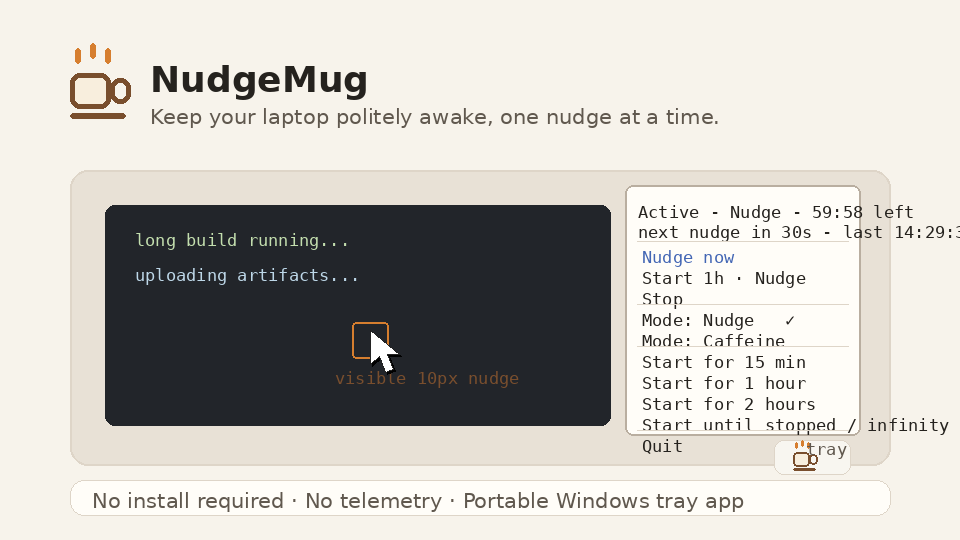
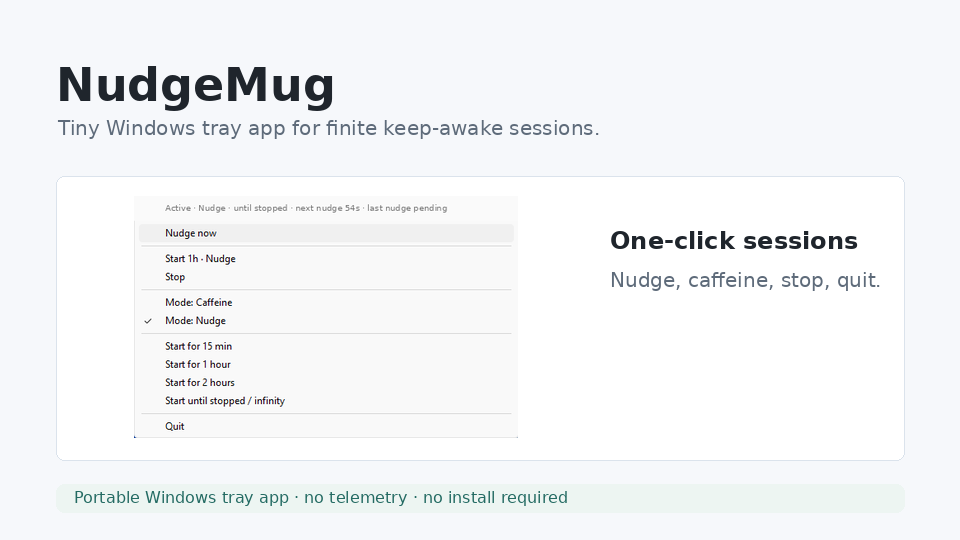
fix: polish tray status and landing screenshots

diff --git a/docs/index.html b/docs/index.html
@@ -30,15 +30,18 @@
       font: 16px/1.5 system-ui, -apple-system, BlinkMacSystemFont, "Segoe UI", sans-serif;
       background: var(--bg);
       color: var(--ink);
+      overflow-x: hidden;
     }
     a { color: var(--blue); }
+    img { max-width: 100%; }
     .wrap { width: min(1120px, calc(100% - 32px)); margin: 0 auto; }
     header { padding: 22px 0; border-bottom: 1px solid var(--line); }
-    nav { display: flex; align-items: center; justify-content: space-between; gap: 16px; }
+    nav { display: flex; align-items: center; justify-content: space-between; gap: 16px; flex-wrap: wrap; }
     .brand { display: flex; align-items: center; gap: 12px; font-weight: 800; letter-spacing: 0; }
     .mug { width: 34px; height: 34px; image-rendering: pixelated; }
     .navlinks { display: flex; gap: 18px; flex-wrap: wrap; font-size: 14px; }
     .hero { padding: 52px 0 34px; display: grid; grid-template-columns: minmax(0, 0.82fr) minmax(340px, 1.18fr); gap: 38px; align-items: center; }
+    .hero > * { min-width: 0; }
     h1 { font-size: clamp(42px, 8vw, 84px); line-height: 0.94; margin: 0 0 18px; letter-spacing: 0; }
     .lede { font-size: clamp(18px, 2.2vw, 24px); color: var(--muted); max-width: 620px; margin: 0 0 26px; }
     .actions { display: flex; gap: 12px; flex-wrap: wrap; align-items: center; }
@@ -46,11 +49,15 @@
     .primary { background: var(--accent); color: white; }
     .primary:hover { background: var(--accent-strong); }
     .secondary { color: var(--accent); background: rgba(255,255,255,0.72); }
-    .terminal { margin-top: 18px; padding: 12px 14px; background: #1f252c; color: #edf5f2; border-radius: 8px; font-family: ui-monospace, SFMono-Regular, Consolas, monospace; font-size: 14px; overflow-x: auto; border-left: 4px solid var(--coral); }
-    .demo { width: 100%; border: 1px solid var(--line); border-radius: 8px; box-shadow: 0 18px 42px rgba(31,37,44,.14); background: var(--card); }
+    .terminal { margin-top: 18px; padding: 12px 14px; background: #1f252c; color: #edf5f2; border-radius: 8px; font-family: ui-monospace, SFMono-Regular, Consolas, monospace; font-size: 14px; overflow-wrap: anywhere; border-left: 4px solid var(--coral); }
+    .terminal .muted { display: block; margin-top: 2px; }
+    .demo { display: block; width: 100%; max-width: 100%; border: 1px solid var(--line); border-radius: 8px; box-shadow: 0 18px 42px rgba(31,37,44,.14); background: var(--card); }
     .section { padding: 34px 0; }
     .grid { display: grid; grid-template-columns: repeat(3, 1fr); gap: 14px; }
-    .card { background: var(--card); border: 1px solid var(--line); border-radius: 8px; padding: 18px; }
+    .shots { display: grid; grid-template-columns: minmax(0, 520px) minmax(0, 1fr); gap: 14px; align-items: start; }
+    .shot { display: block; width: auto; max-width: 100%; height: auto; object-fit: contain; background: var(--card); border: 1px solid var(--line); border-radius: 8px; padding: 10px; }
+    .shot-stack { display: grid; gap: 14px; }
+    .card { background: var(--card); border: 1px solid var(--line); border-radius: 8px; padding: 18px; min-width: 0; }
     h2 { font-size: 30px; margin: 0 0 14px; }
     h3 { margin: 0 0 8px; font-size: 18px; }
     p { margin: 0 0 12px; }
@@ -59,10 +66,21 @@
     .download-band { margin-top: 20px; background: var(--card); border: 1px solid var(--line); border-left: 4px solid var(--coral); border-radius: 8px; padding: 18px; display: grid; grid-template-columns: 1fr auto; gap: 16px; align-items: center; }
     footer { padding: 34px 0 46px; color: var(--muted); border-top: 1px solid var(--line); margin-top: 24px; }
     @media (max-width: 840px) {
-      .hero { grid-template-columns: 1fr; padding-top: 34px; }
+      .hero { grid-template-columns: minmax(0, 1fr); padding-top: 34px; }
       .grid { grid-template-columns: 1fr; }
+      .shots { grid-template-columns: 1fr; }
       .download-band { grid-template-columns: 1fr; }
       .navlinks { justify-content: flex-end; }
+    }
+    @media (max-width: 520px) {
+      .wrap { width: 100%; padding-left: 16px; padding-right: 16px; }
+      header { padding: 18px 0; }
+      nav { display: grid; grid-template-columns: 1fr; align-items: flex-start; }
+      .navlinks { justify-content: flex-start; gap: 12px; font-size: 14px; width: 100%; }
+      h1 { font-size: 42px; }
+      .lede { font-size: 18px; }
+      .actions { display: grid; grid-template-columns: 1fr; }
+      .btn { width: 100%; }
     }
   </style>
 </head>
@@ -92,9 +110,20 @@
           <a class="btn primary" href="https://github.com/hrt0x/nudgemug/releases/latest/download/nudgemug-tray-windows-amd64.exe">Download for Windows</a>
           <a class="btn secondary" href="https://github.com/hrt0x/nudgemug/releases/latest">All downloads</a>
         </div>
-        <div class="terminal">winget install hrt0x.NudgeMug <span class="muted"># coming after v1.0.0 manifest approval</span></div>
+        <div class="terminal">winget install Hrt0x.NudgeMug <span class="muted"># pending winget review</span></div>
       </div>
       <img class="demo" src="assets/nudgemug-demo.gif" alt="NudgeMug tray menu demo showing a visible mouse nudge and countdown.">
+    </section>
+
+    <section class="section wrap">
+      <h2>Native tray, no ceremony</h2>
+      <div class="shots">
+        <img class="shot" src="assets/nudgemug-tray-menu.png" alt="NudgeMug native Windows tray menu with Nudge and Caffeine modes.">
+        <div class="shot-stack">
+          <img class="shot" src="assets/nudgemug-tray-tooltip.png" alt="NudgeMug short Windows tray tooltip.">
+          <img class="shot" src="assets/nudgemug-tray-icons.png" alt="NudgeMug icon inside the Windows tray overflow menu.">
+        </div>
+      </div>
     </section>
 
     <section class="section wrap">

diff --git a/cmd/nudgemug-tray/status.go b/cmd/nudgemug-tray/status.go
@@ -12,29 +12,35 @@ func sessionSummary(now time.Time, running bool, sessionEnd time.Time) string {
 	if sessionEnd.IsZero() {
 		return "until stopped"
 	}
-	remaining := sessionEnd.Sub(now)
-	if remaining < 0 {
-		remaining = 0
-	}
-	return fmt.Sprintf("%s left - stops %s", formatDuration(remaining), sessionEnd.Format("15:04"))
+	return "stops " + sessionEnd.Format("15:04")
 }
 
 func nudgeSummary(running bool, mode keepMode, nextNudge time.Time, last string) string {
 	if mode != modeNudge {
 		return last
 	}
-	next := "next nudge in --"
-	if running && !nextNudge.IsZero() {
-		next = fmt.Sprintf("next nudge in %ds", secondsUntil(nextNudge))
+	if !running {
+		return last
 	}
-	return fmt.Sprintf("%s - %s", next, last)
+	next := "next nudge pending"
+	if !nextNudge.IsZero() {
+		next = fmt.Sprintf("next nudge %ds", secondsUntil(nextNudge))
+	}
+	return fmt.Sprintf("%s · %s", next, last)
 }
 
 func buildStatusHeader(state string, mode keepMode, session, detail string) string {
 	if session == "" {
-		return fmt.Sprintf("%s - %s - %s", state, mode, detail)
+		return fmt.Sprintf("%s · %s · %s", state, mode, detail)
 	}
-	return fmt.Sprintf("%s - %s - %s - %s", state, mode, session, detail)
+	return fmt.Sprintf("%s · %s · %s · %s", state, mode, session, detail)
+}
+
+func buildTooltip(state string, mode keepMode, session string) string {
+	if session == "" {
+		return fmt.Sprintf("NudgeMug %s · %s (%s)", version, state, mode)
+	}
+	return fmt.Sprintf("NudgeMug %s · %s (%s) · %s", version, state, mode, session)
 }
 
 func formatDuration(duration time.Duration) string {

diff --git a/cmd/nudgemug-tray/main_test.go b/cmd/nudgemug-tray/main_test.go
@@ -27,7 +27,7 @@ func TestSessionSummaryFinite(t *testing.T) {
 	end := now.Add(time.Hour + 23*time.Minute + 45*time.Second)
 
 	got := sessionSummary(now, true, end)
-	want := "1:23:45 left - stops 13:23"
+	want := "stops 13:23"
 	if got != want {
 		t.Fatalf("sessionSummary finite = %q, want %q", got, want)
 	}
@@ -54,8 +54,8 @@ func TestFormatDuration(t *testing.T) {
 }
 
 func TestBuildStatusHeader(t *testing.T) {
-	got := buildStatusHeader("Active", modeCaffeine, "1:23:45 left - stops 13:23", "last nudge 12:00:00")
-	want := "Active - Caffeine - 1:23:45 left - stops 13:23 - last nudge 12:00:00"
+	got := buildStatusHeader("Active", modeCaffeine, "stops 13:23", "last nudge 12:00:00")
+	want := "Active · Caffeine · stops 13:23 · last nudge 12:00:00"
 	if got != want {
 		t.Fatalf("buildStatusHeader = %q, want %q", got, want)
 	}
@@ -65,10 +65,29 @@ func TestNudgeStatusIncludesNextNudge(t *testing.T) {
 	next := time.Now().Add(14 * time.Second)
 
 	got := buildStatusHeader("Active", modeNudge, "until stopped", nudgeSummary(true, modeNudge, next, "last nudge 12:00:00"))
-	for _, want := range []string{"Active - Nudge - until stopped", "next nudge in", "last nudge 12:00:00"} {
+	for _, want := range []string{"Active · Nudge · until stopped", "next nudge", "last nudge 12:00:00"} {
 		if !strings.Contains(got, want) {
 			t.Fatalf("buildStatusHeader = %q, want to contain %q", got, want)
 		}
+	}
+}
+
+func TestNudgeStatusOmitsNextWhenStopped(t *testing.T) {
+	got := nudgeSummary(false, modeNudge, time.Time{}, "last nudge pending")
+	want := "last nudge pending"
+	if got != want {
+		t.Fatalf("nudgeSummary stopped = %q, want %q", got, want)
+	}
+}
+
+func TestBuildTooltipStaysShort(t *testing.T) {
+	got := buildTooltip("Active", modeNudge, "stops 13:23")
+	want := "NudgeMug dev · Active (Nudge) · stops 13:23"
+	if got != want {
+		t.Fatalf("buildTooltip = %q, want %q", got, want)
+	}
+	if len(got) > 80 {
+		t.Fatalf("buildTooltip length = %d, want short enough for tray tooltip", len(got))
 	}
 }
 

diff --git a/cmd/nudgemug-tray/main.go b/cmd/nudgemug-tray/main.go
@@ -403,7 +403,6 @@ func (app *trayApp) updateStatus() {
 	sessionEnd := app.sessionEnd
 	lastNudge := app.lastNudge
 	lastErr := app.lastErr
-	mechanismName := app.mechanismNameLocked()
 	app.mu.Unlock()
 
 	state := "Stopped"
@@ -412,19 +411,19 @@ func (app *trayApp) updateStatus() {
 	}
 
 	session := sessionSummary(time.Now(), running, sessionEnd)
-	last := "last nudge --:--:--"
+	last := "last nudge pending"
 	if !lastNudge.IsZero() {
 		last = "last nudge " + lastNudge.Format("15:04:05")
 	}
 
 	header := buildStatusHeader(state, mode, session, nudgeSummary(running, mode, nextNudge, last))
 	if lastErr != nil {
-		header = fmt.Sprintf("%s - %s - error: %s - %s", state, mode, lastErr.Error(), last)
+		header = fmt.Sprintf("%s · %s · error: %s · %s", state, mode, lastErr.Error(), last)
 	}
 
 	if app.statusItem != nil {
 		app.statusItem.SetTitle(header)
-		systray.SetTooltip(fmt.Sprintf("NudgeMug %s: %s (%s)", version, header, mechanismName))
+		systray.SetTooltip(buildTooltip(state, mode, session))
 	}
 }
 

diff --git a/README.md b/README.md
@@ -105,12 +105,20 @@ Switching modes while a session is active keeps the same duration session, stops
 
 ### Tray feedback
 
-The tray stays tray-only: no window, no settings panel, no custom popover. Start/Stop swap between active and stopped icons, and the tooltip mirrors the menu header so you can confirm what NudgeMug is doing without opening anything else.
+The tray stays tray-only: no window, no settings panel, no custom popover. Start/Stop swap between active and stopped icons, and the tooltip keeps a short readable state summary so you can confirm what NudgeMug is doing without opening anything else.
 
-Screenshot pending. Expected menu shape:
+Real Windows tray menu:
+
+![NudgeMug Windows tray menu](docs/assets/nudgemug-tray-menu.png)
+
+Short tray tooltip:
+
+![NudgeMug Windows tray tooltip](docs/assets/nudgemug-tray-tooltip.png)
+
+Expected menu shape:
 
 ```text
-Active - Nudge - 1:23:45 left - stops 17:00 - next nudge in 14s - last nudge 16:42:10
+Active · Nudge · stops 17:00 · next nudge 14s · last nudge 16:42:10
 ----------------
 Nudge now
 ----------------